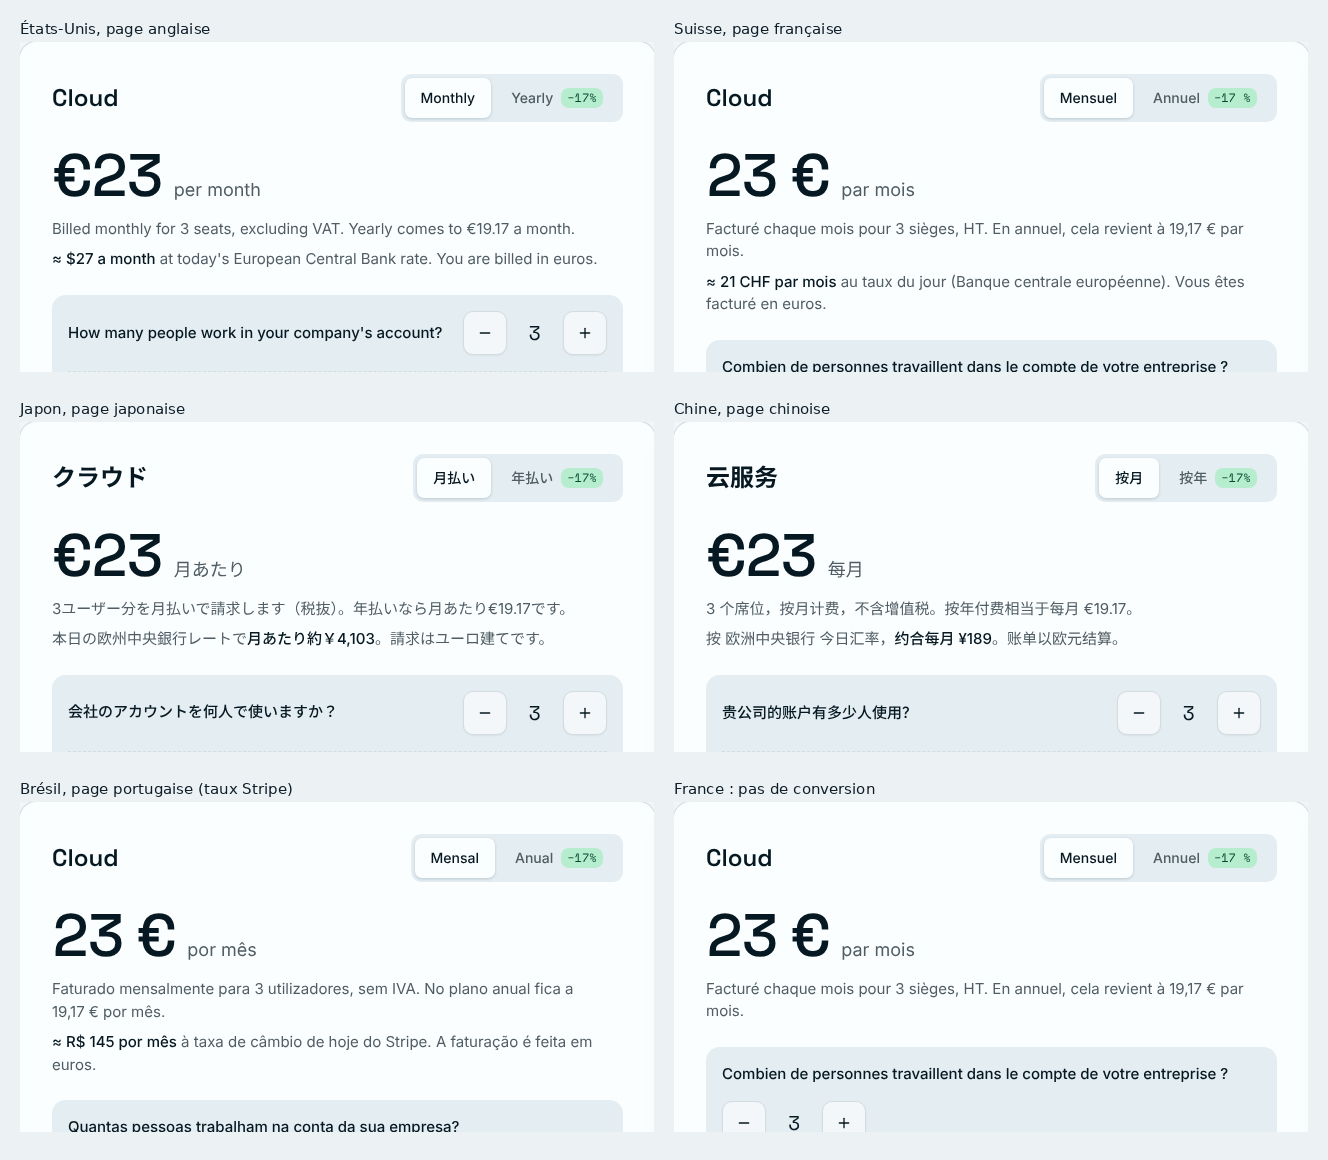
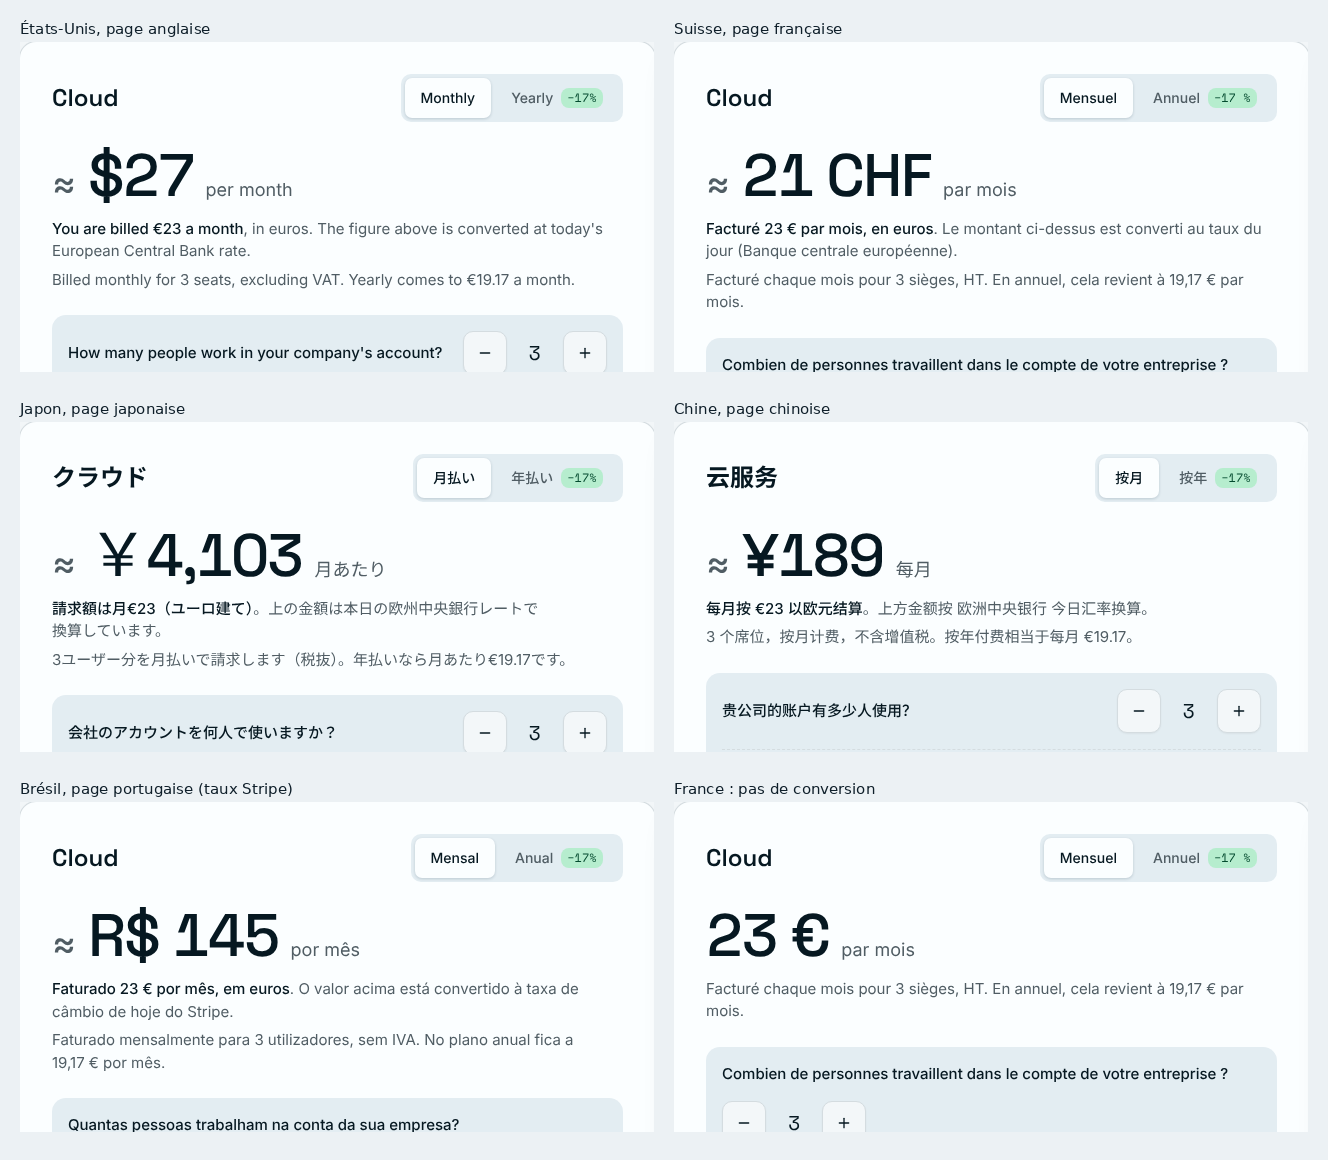
Lead the cloud price with the visitor's currency
The large figure is now the indicative amount in the visitor's currency
(≈ $27, ≈ ¥189), and the euro amount actually billed sits right under it,
with the rate's source. Euro countries, and the prerendered page before the
rate arrives, still show euros alone.

Claude-Session: https://claude.ai/code/session_01TsTmwV89NmDwB65c3NTPVn

diff --git a/src/components/sections/pricing.tsx b/src/components/sections/pricing.tsx
@@ -81,21 +81,28 @@ export function Pricing() {
                     </div>
 
                     <div>
+                        {/* In the visitor's currency when there is one to convert to: the figure they
+                            read first is in money they think in, and the euro amount actually billed
+                            follows right under it. Euros alone for the euro area, and before the rate
+                            arrives (the prerendered page). */}
                         <p className="flex flex-wrap items-baseline gap-x-3 gap-y-1">
-                            <span className="font-heading text-6xl font-medium leading-none tracking-[-0.03em] tabular-nums">{eur(lead)}</span>
+                            {local && <span className="font-heading text-4xl font-medium leading-none text-muted-foreground">≈</span>}
+                            <span className="font-heading text-6xl font-medium leading-none tracking-[-0.03em] tabular-nums">{local ? formatLocal(lead, local, localeFor()) : eur(lead)}</span>
                             <span className="text-lg text-muted-foreground">{t.perMonth}</span>
-                            {yearly && <s className="font-heading text-2xl text-muted-foreground tabular-nums decoration-[1.5px]">{eur(month)}</s>}
+                            {yearly && (
+                                <s className="font-heading text-2xl text-muted-foreground tabular-nums decoration-[1.5px]">{local ? formatLocal(month, local, localeFor()) : eur(month)}</s>
+                            )}
                         </p>
-                        <p className="mt-3 text-[15px] text-muted-foreground">
+                        {local && (
+                            <p className="mt-3 text-[15px] text-muted-foreground">
+                                {rich(t.local, { strong }, { amount: eur(lead), source: t.sources[local.source] })}
+                            </p>
+                        )}
+                        <p className={cn('text-[15px] text-muted-foreground', local ? 'mt-1.5' : 'mt-3')}>
                             {yearly
                                 ? rich(t.billedYearly, { strong }, { amount: eur(year), seats: seatCount, full: eur(month * 12), saved: eur(month * 12 - year) })
                                 : fmt(t.billedMonthly, { seats: seatCount, yearly: eur(year / 12) })}
                         </p>
-                        {local && (
-                            <p className="mt-2 text-[15px] text-muted-foreground">
-                                {rich(t.local, { strong }, { amount: formatLocal(lead, local, localeFor()), source: t.sources[local.source] })}
-                            </p>
-                        )}
                     </div>
 
                     <div className="rounded-xl bg-secondary px-4 py-4">

diff --git a/src/i18n/home/hi.ts b/src/i18n/home/hi.ts
@@ -186,7 +186,7 @@ const copy: HomeCopy = {
         seats: { one: '{n} सीट', other: '{n} सीटें' },
         billedMonthly: '{seats} के लिए हर महीने बिल, VAT के बिना। वार्षिक में यह {yearly} प्रति माह पड़ता है।',
         billedYearly: '{seats} के लिए {strong}साल में एक बार {amount} का बिल{/strong}, {full} के बजाय। आपकी बचत {saved}।',
-        local: 'आज की {source} दर पर {strong}≈ {amount} प्रति माह{/strong}। बिल यूरो में बनता है।',
+        local: '{strong}बिल {amount} प्रति माह, यूरो में{/strong}। ऊपर की राशि आज की {source} दर पर बदली गई है।',
         sources: { stripe: 'Stripe', ecb: 'यूरोपीय सेंट्रल बैंक' },
         seatQuestion: 'आपकी कंपनी के अकाउंट में कितने लोग काम करते हैं?',
         removeSeat: 'एक सीट हटाएँ',

diff --git a/src/i18n/home/ru.ts b/src/i18n/home/ru.ts
@@ -186,7 +186,7 @@ const copy: HomeCopy = {
         seats: { one: '{n} пользователя', few: '{n} пользователей', many: '{n} пользователей', other: '{n} пользователя' },
         billedMonthly: 'Ежемесячная оплата для {seats}, без НДС. При оплате за год выходит {yearly} в месяц.',
         billedYearly: '{strong}{amount} раз в год{/strong} для {seats} вместо {full}. Экономия {saved}.',
-        local: '{strong}≈ {amount} в месяц{/strong} по сегодняшнему курсу {source}. Оплата списывается в евро.',
+        local: '{strong}К оплате {amount} в месяц, в евро{/strong}. Сумма выше пересчитана по сегодняшнему курсу {source}.',
         sources: { stripe: 'Stripe', ecb: 'Европейского центрального банка' },
         seatQuestion: 'Сколько человек работает в аккаунте вашей компании?',
         removeSeat: 'Убрать пользователя',

diff --git a/src/i18n/home/ar.ts b/src/i18n/home/ar.ts
@@ -186,7 +186,7 @@ const copy: HomeCopy = {
         seats: { zero: "{n} مستخدم", one: "مستخدم واحد", two: "مستخدمان", few: "{n} مستخدمين", many: "{n} مستخدمًا", other: "{n} مستخدم" },
         billedMonthly: "فوترة شهرية ({seats})، دون ضريبة القيمة المضافة. الدفع السنوي يعادل {yearly} شهريًا.",
         billedYearly: "{strong}{amount} تُدفع مرة واحدة في السنة{/strong} ({seats})، بدلًا من {full}. توفّر {saved}.",
-        local: "{strong}≈ {amount} شهريًا{/strong} بسعر صرف {source} اليوم. تتم الفوترة باليورو.",
+        local: "{strong}تتم الفوترة {amount} شهريًا باليورو{/strong}. المبلغ أعلاه محوَّل بسعر صرف {source} اليوم.",
         sources: { stripe: "Stripe", ecb: "البنك المركزي الأوروبي" },
         seatQuestion: "كم عدد الأشخاص الذين يعملون على حساب شركتك؟",
         removeSeat: "إزالة مستخدم",

diff --git a/src/i18n/home/pl.ts b/src/i18n/home/pl.ts
@@ -186,7 +186,7 @@ const copy: HomeCopy = {
         seats: { one: '{n} użytkownika', few: '{n} użytkowników', many: '{n} użytkowników', other: '{n} użytkownika' },
         billedMonthly: 'Płatne co miesiąc za {seats}, bez VAT. Przy płatności rocznej wychodzi {yearly} miesięcznie.',
         billedYearly: '{strong}{amount} płatne raz w roku{/strong} za {seats} zamiast {full}. Oszczędzasz {saved}.',
-        local: '{strong}≈ {amount} miesięcznie{/strong} według dzisiejszego kursu {source}. Rozliczenie następuje w euro.',
+        local: '{strong}Rozliczenie: {amount} miesięcznie, w euro{/strong}. Kwota powyżej jest przeliczona według dzisiejszego kursu {source}.',
         sources: { stripe: 'Stripe', ecb: 'Europejskiego Banku Centralnego' },
         seatQuestion: 'Ile osób korzysta z konta Twojej firmy?',
         removeSeat: 'Usuń użytkownika',

diff --git a/src/i18n/home/pt.ts b/src/i18n/home/pt.ts
@@ -186,7 +186,7 @@ const copy: HomeCopy = {
         seats: { one: "{n} utilizador", many: "{n} de utilizadores", other: "{n} utilizadores" },
         billedMonthly: "Faturado mensalmente para {seats}, sem IVA. No plano anual fica a {yearly} por mês.",
         billedYearly: "{strong}{amount} faturados uma vez por ano{/strong} para {seats}, em vez de {full}. Poupa {saved}.",
-        local: "{strong}≈ {amount} por mês{/strong} à taxa de câmbio de hoje do {source}. A faturação é feita em euros.",
+        local: "{strong}Faturado {amount} por mês, em euros{/strong}. O valor acima está convertido à taxa de câmbio de hoje do {source}.",
         sources: { stripe: "Stripe", ecb: "Banco Central Europeu" },
         seatQuestion: "Quantas pessoas trabalham na conta da sua empresa?",
         removeSeat: "Remover um utilizador",

diff --git a/src/i18n/home/nl.ts b/src/i18n/home/nl.ts
@@ -186,7 +186,7 @@ const copy: HomeCopy = {
         seats: { one: "{n} gebruiker", other: "{n} gebruikers" },
         billedMonthly: "Maandelijks gefactureerd voor {seats}, excl. btw. Jaarlijks komt neer op {yearly} per maand.",
         billedYearly: "{strong}{amount} eenmaal per jaar gefactureerd{/strong} voor {seats}, in plaats van {full}. Je bespaart {saved}.",
-        local: "{strong}≈ {amount} per maand{/strong} tegen de huidige koers van {source}. Je wordt gefactureerd in euro.",
+        local: "{strong}Gefactureerd: {amount} per maand, in euro{/strong}. Het bedrag hierboven is omgerekend tegen de huidige koers van {source}.",
         sources: { stripe: "Stripe", ecb: "de Europese Centrale Bank" },
         seatQuestion: "Hoeveel mensen werken in het account van je bedrijf?",
         removeSeat: "Gebruiker verwijderen",

diff --git a/src/i18n/home/tr.ts b/src/i18n/home/tr.ts
@@ -186,7 +186,7 @@ const copy: HomeCopy = {
         seats: { one: "{n} kullanıcı", other: "{n} kullanıcı" },
         billedMonthly: "{seats} için aylık faturalandırılır, KDV hariç. Yıllık ödemede aylık {yearly} tutar.",
         billedYearly: "{seats} için {full} yerine {strong}yılda bir kez {amount} faturalandırılır{/strong}. {saved} tasarruf edersiniz.",
-        local: "Bugünkü {source} kuruyla {strong}aylık ≈ {amount}{/strong}. Faturanız euro cinsinden kesilir.",
+        local: "{strong}Aylık {amount}, euro cinsinden faturalandırılır{/strong}. Yukarıdaki tutar bugünkü {source} kuruyla çevrilmiştir.",
         sources: { stripe: "Stripe", ecb: "Avrupa Merkez Bankası" },
         seatQuestion: "Şirketinizin hesabında kaç kişi çalışıyor?",
         removeSeat: "Kullanıcı çıkar",

diff --git a/src/i18n/home/it.ts b/src/i18n/home/it.ts
@@ -186,7 +186,7 @@ const copy: HomeCopy = {
         seats: { one: '{n} utente', many: '{n} di utenti', other: '{n} utenti' },
         billedMonthly: "Fatturato mensilmente per {seats}, IVA esclusa. Con l'annuale sono {yearly} al mese.",
         billedYearly: "{strong}{amount} fatturati una volta all'anno{/strong} per {seats}, invece di {full}. Risparmi {saved}.",
-        local: '{strong}≈ {amount} al mese{/strong} al tasso di cambio attuale ({source}). La fatturazione avviene in euro.',
+        local: '{strong}Fatturati {amount} al mese, in euro{/strong}. L\'importo qui sopra è convertito al tasso di cambio attuale ({source}).',
         sources: { stripe: 'Stripe', ecb: 'Banca centrale europea' },
         seatQuestion: "Quante persone lavorano sull'account della tua azienda?",
         removeSeat: 'Rimuovi un utente',

diff --git a/src/i18n/home/es.ts b/src/i18n/home/es.ts
@@ -186,7 +186,7 @@ const copy: HomeCopy = {
         seats: { one: '{n} usuario', many: '{n} de usuarios', other: '{n} usuarios' },
         billedMonthly: 'Facturado mensualmente por {seats}, IVA no incluido. En anual sale a {yearly} al mes.',
         billedYearly: '{strong}{amount} facturados una vez al año{/strong} por {seats}, en lugar de {full}. Ahorras {saved}.',
-        local: '{strong}≈ {amount} al mes{/strong} al tipo de cambio actual ({source}). Se te factura en euros.',
+        local: '{strong}Se facturan {amount} al mes, en euros{/strong}. El importe de arriba está convertido al tipo de cambio actual ({source}).',
         sources: { stripe: 'Stripe', ecb: 'Banco Central Europeo' },
         seatQuestion: '¿Cuántas personas trabajan en la cuenta de tu empresa?',
         removeSeat: 'Quitar un usuario',

diff --git a/src/i18n/home/fr.ts b/src/i18n/home/fr.ts
@@ -186,7 +186,7 @@ const copy: HomeCopy = {
         seats: { one: '{n} siège', other: '{n} sièges' },
         billedMonthly: 'Facturé chaque mois pour {seats}, HT. En annuel, cela revient à {yearly} par mois.',
         billedYearly: '{strong}{amount} facturés une fois par an{/strong} pour {seats}, au lieu de {full}. Vous économisez {saved}.',
-        local: '{strong}≈ {amount} par mois{/strong} au taux du jour ({source}). Vous êtes facturé en euros.',
+        local: '{strong}Facturé {amount} par mois, en euros{/strong}. Le montant ci-dessus est converti au taux du jour ({source}).',
         sources: { stripe: 'Stripe', ecb: 'Banque centrale européenne' },
         seatQuestion: 'Combien de personnes travaillent dans le compte de votre entreprise ?',
         removeSeat: 'Retirer un siège',

diff --git a/src/i18n/home/ja.ts b/src/i18n/home/ja.ts
@@ -186,7 +186,7 @@ const copy: HomeCopy = {
         seats: { other: '{n}ユーザー' },
         billedMonthly: '{seats}分を月払いで請求します（税抜）。年払いなら月あたり{yearly}です。',
         billedYearly: '{seats}分を{strong}年1回{amount}で請求{/strong}（通常{full}）。{saved}お得です。',
-        local: '本日の{source}レートで{strong}月あたり約{amount}{/strong}。請求はユーロ建てです。',
+        local: '{strong}請求額は月{amount}（ユーロ建て）{/strong}。上の金額は本日の{source}レートで換算しています。',
         sources: { stripe: 'Stripe', ecb: '欧州中央銀行' },
         seatQuestion: '会社のアカウントを何人で使いますか？',
         removeSeat: 'ユーザーを1人減らす',
